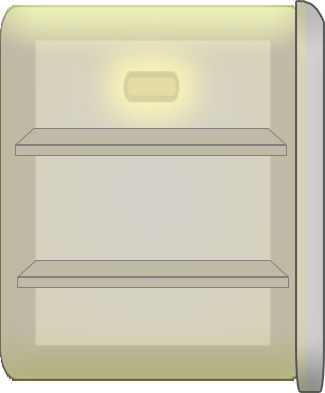
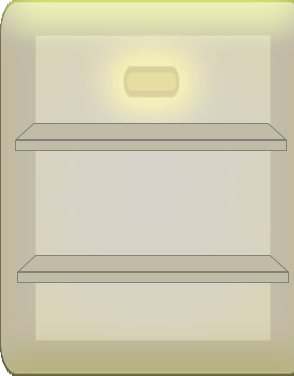
Реализовано:
- Смена темы на светлую
- Пересмотр стиля компонент инвентаря, и перехода на другой уровень
- Механика работы дверей
- Добавлены кнопки сокрытия инвентаря и кнопка сокрытия меню

Changed region(s): [[0.0, 0.0, 1.0, 1.0], [0.5204, 0.1755, 0.6122, 0.2633], [0.3673, 0.1755, 0.4286, 0.2633]]

diff --git a/src/App.tsx b/src/App.tsx
@@ -1,7 +1,7 @@
 import './App.scss'
 
 import b_ from 'b_'
-import React from "react";
+import React, {useEffect, useLayoutEffect, useState} from "react";
 import Inventory from "./component/root/Inventory/index";
 import DisplayComponent from "./component/root/GameSpace";
 import Header from "./component/root/Header";
@@ -9,20 +9,39 @@ import InventoryProviderComponent from "./component/root/Inventory/reduser";
 import TaskSheetProviderComponent from "./component/root/TaskSheet/reduser";
 import NextLocation from "./component/root/NextLocation";
 import {useLocation} from "./component/root/reducer";
+import {useHistory} from 'react-router-dom'
+import {pathSheriffRoom} from "./component/module/Firrst_day/Room_Sheriff/type";
+import {useTheme} from "./hooks";
 
 const b = b_.with('work-space');
 
 const App = () => {
     const propsLocation = useLocation();
+    const history = useHistory();
+    const [isVisibleInventory, setVisibleInventory] = useState<boolean>(true);
+    const [isVisibleMenu, setVisibleMenu] = useState<boolean>(true);
+    const {theme, setTheme} = useTheme();
+
+    useLayoutEffect(() => {
+        history.push(pathSheriffRoom.Kitchen())
+        document.addEventListener('keydown', (event: KeyboardEvent) => {
+            if (event.key.toLowerCase() === 'i') {
+                setVisibleInventory(prevState => !prevState);
+            }
+            if (event.key.toLowerCase() === 'm') {
+                setVisibleMenu(prevState => !prevState);
+            }
+        });
+    }, [])
 
     return <div className={b()}>
         <TaskSheetProviderComponent>
-           <div className={b('header')}>
-               <Header/>
-           </div>
-            <div className={b('body')}>
+            { isVisibleMenu && (<div className={b('header')}>
+                <Header/>
+            </div>)}
+            <div className={b('body', {menu: !isVisibleMenu})}>
                     <InventoryProviderComponent>
-                        <Inventory/>
+                        {isVisibleInventory && (<Inventory/>)}
                         <NextLocation urlLocation={propsLocation.leftLocation} revers={true} disable={propsLocation.leftLocation === ''}/>
                         <DisplayComponent/>
                         <NextLocation urlLocation={propsLocation.rightLocation} disable={propsLocation.rightLocation === ''}/>

diff --git a/src/component/module/Firrst_day/Room_Sheriff/Kitchen/components/Fridge/index.tsx b/src/component/module/Firrst_day/Room_Sheriff/Kitchen/components/Fridge/index.tsx
@@ -35,11 +35,12 @@ const Fridge = () => {
             }}
             classNameContainer={construction({top_open: isOpenTopDoor, top: !isOpenTopDoor})}
             classNameImg={img({top_open: isOpenTopDoor, top: !isOpenTopDoor})}/>
+            <div className={construction('bottom-block-door')}>
         <Image
             onClick={() => {
                 if(!isOpenBottomDoor) {
                     songDoor({id: 'close'})
-                    setOpenBottomDoor(!isOpenBottomDoor)
+                    setOpenBottomDoor(true)
                 } else {
                     history.push(pathSheriffRoom.FridgeInside());
                 }
@@ -47,6 +48,15 @@ const Fridge = () => {
             classNameContainer={construction({bottom: !isOpenBottomDoor, bottom_open: isOpenBottomDoor })}
             classNameImg={img({bottom: !isOpenBottomDoor, bottom_open: isOpenBottomDoor})}>
         </Image>
+                {isOpenBottomDoor && (<Image
+                    onClick={()=>{
+                        songDoor({id: 'close'})
+                        setOpenBottomDoor(false)
+                    }}
+                    classNameContainer={construction({opened_door: true})}
+                    classNameImg={img({opened_door: true})}
+                />)}
+            </div>
     </Image>
 }
 

diff --git a/src/App.scss b/src/App.scss
@@ -1,5 +1,5 @@
 
-body {
+html[data-theme='dark']{
   --black-natural-2: #1c1c1c;
   --black-natural-1: #000000;
   --black-natural-3: #232323;
@@ -12,8 +12,29 @@ body {
 
   --dark-mask-1: #0000009c;
 
+  --box-shadow: #000000;
   --z-index-backgound: 10;
   --z-index-things-third-plan:  13;
+  --z-index-things-second-plan: 15;
+  --z-index-things-first-plan: 20;
+  --z-index-button: 40;
+  --z-index-popup: 80;
+  --z-index-modal: 100;
+}
+
+html[data-theme='light']{
+  --black-natural-1: #dbdbdb;
+  --black-natural-2: #ffffff;
+  --black-natural-3: #dfdfdf;
+  --gray-natural-dark: #8f8e8e;
+  --gray-natural-medium: #272727;
+  --gray-natural-light: #838383;
+  --white-natural-1: #1c1c1c;
+  --dark-red-natural-1: #870000;
+  --dark-mask-1: rgba(213, 213, 213, 0.61);
+  --box-shadow: #a9a9a9;
+  --z-index-backgound: 10;
+  --z-index-things-third-plan: 13;
   --z-index-things-second-plan: 15;
   --z-index-things-first-plan: 20;
   --z-index-button: 40;
@@ -57,6 +78,11 @@ body {
     justify-content: center;
     align-items: flex-start;
     position: relative;
+
+    &_menu {
+      height: calc(100% - 20px);
+      align-items: flex-end;
+    }
   }
 
 }

diff --git a/src/component/root/Header/index.tsx b/src/component/root/Header/index.tsx
@@ -5,11 +5,13 @@ import React from "react";
 import {Button, Song, IconType} from 'rooms';
 import useSound from "use-sound";
 import {useTaskSheet} from "../TaskSheet/reduser";
+import {useHistory} from 'react-router-dom';
 
 const b = b_.with('header');
 
 const Header = () => {
 
+    const history  = useHistory();
     const taskProps = useTaskSheet();
     const [openSong] = useSound(Song.openCheckList, {sprite: {openSong: [100, 500]}});
 
@@ -24,7 +26,15 @@ const Header = () => {
             openSong({id:'openSong'});
         }}
         className={b('icon-bt')}
-        classNameIcon={b('icon')}
+        classNameIcon={b('icon')} />
+        <Button.Icon onClick={()=>{
+            history.goBack();
+        }}
+        mods={{
+            [IconType.Mods.Arrow]: true,
+            [IconType.SettingIcon.HoverColor]: IconType.Color.Red
+        }}
+        text={'Назад'}
         />
     </div>)
 }

diff --git a/src/ui-kit/IconButton/index.tsx b/src/ui-kit/IconButton/index.tsx
@@ -4,6 +4,7 @@ import b_ from 'b_';
 import React from "react";
 import Icon from "../Icon";
 import {IMods} from "../Icon/type";
+import {handleOnClick} from "../function/indes";
 
 const b = b_.with('icon-bt');
 
@@ -12,6 +13,7 @@ interface IIconButton {
     className?: string,
     classNameIcon?: string,
     disable?: boolean,
+    text?: string,
     onClick: () => void,
     style?:{
         border?: boolean,
@@ -26,13 +28,10 @@ const IconButton = ({
     disable,
                     }:IIconButton) =>
     (<div className={[
-        b(),
+        b( ),
         className,
     ].join(' ')}
-    onClick= {()=> {
-        if (!disable) {
-            onClick();
-        }}}
+    onClick= {(event)=> handleOnClick({onClick, disable, event})}
     >
         <Icon
             mods={mods}

diff --git a/src/component/module/Firrst_day/Room_Sheriff/Kitchen/components/Fridge/Fridge.scss b/src/component/module/Firrst_day/Room_Sheriff/Kitchen/components/Fridge/Fridge.scss
@@ -27,6 +27,13 @@
     align-items: center;
   }
 
+  &_opened_door {
+    background-image: url('img/Opened-door.png');
+    display: flex;
+    justify-content: center;
+    align-items: center;
+  }
+
 }
 
 .fridge-construction {
@@ -59,15 +66,30 @@
   &_bottom {
     display: flex;
     width: 75%;
-    height: 48%;
+    height: 75%;
     cursor: pointer;
   }
 
+  &__bottom-block-door {
+    display: inline-flex;
+    width: 100%;
+    height: 66%;
+    justify-content: center;
+  }
+
   &_bottom_open {
+    margin-top: 3%;
     margin-left: 3%;
     display: flex;
-    width: 70%;
-    height: 48%;
+    width: 65%;
+    height: 71%;
+    cursor: pointer;
+  }
+
+  &_opened_door {
+    display: flex;
+    width: 7%;
+    height: 75%;
     cursor: pointer;
   }
 

diff --git a/src/component/root/NextLocation/index.tsx b/src/component/root/NextLocation/index.tsx
@@ -16,6 +16,7 @@ interface INextLocation {
 const NextLocation = ({urlLocation, revers, disable}:INextLocation) => {
     const history = useHistory();
     return <div className={b( {revers})}>
+        <div className={b('next-location-block ')}>
             <Button.Icon
                 disable={disable}
                 className={b('block-location', {revers})}
@@ -26,6 +27,7 @@ const NextLocation = ({urlLocation, revers, disable}:INextLocation) => {
                     [IconType.SettingIcon.HoverColor]: disable ? IconType.Color.Gray : IconType.Color.Red
              }}
             />
+        </div>
     </div>
 }
 

diff --git a/src/component/root/NextLocation/NextLocation.scss b/src/component/root/NextLocation/NextLocation.scss
@@ -1,13 +1,24 @@
 .next-location {
   display: flex;
-  justify-content: center;
+  justify-content: flex-start;
   align-items: center;
   min-width: 20px;
-  width: 100px;
-  height: 100%;
-
+  width: 60px;
+  height: 95%;
+  &_revers {
+    justify-content: flex-end;
+  }
 
   &__block-location {
+    display: flex;
+    justify-content: center;
+    align-items: center;
+    min-width: 20px;
+    width: 44px;
+    height: 65px;
+    background-color: var(--black-natural-2);
+    border-radius: 0px 32px 32px 0;
+
       &_revers {
         transform: rotate(180deg);
       }

diff --git a/src/hooks/index.tsx b/src/hooks/index.tsx
@@ -1,0 +1,18 @@
+import {Dispatch, SetStateAction, useLayoutEffect, useState} from 'react';
+
+export enum Theme {
+    Light = 'light',
+    Dark='dark',
+}
+
+type TUseTheme  = () => {theme: Theme, setTheme: (arg: Theme) => void}
+
+export const useTheme: TUseTheme = () => {
+    const [theme, setTheme] = useState<Theme>(Theme.Dark);
+
+    useLayoutEffect(()=> {
+        document.documentElement.setAttribute('data-theme', theme)
+    }, [theme])
+
+    return {theme ,setTheme};
+}

diff --git a/src/component/root/Inventory/Inventory.scss b/src/component/root/Inventory/Inventory.scss
@@ -8,6 +8,7 @@
     flex-grow: 0;
     flex-shrink: 0;
     margin-left: 40px;
+    border: 2px solid var(--gray-natural-dark);
 
     &__button {
         display: flex;
@@ -52,7 +53,7 @@
         height: 121px;
         background: var(--black-natural-2);
         width: 180px;
-        box-shadow: inset -1px 1px 17px 9px;
+        box-shadow: inset -1px 1px 17px 9px var(--box-shadow);
         border-radius: 8px;
         cursor: pointer;
         flex-grow: 0;

diff --git a/src/ui-kit/Button/Button.scss b/src/ui-kit/Button/Button.scss
@@ -1,0 +1,20 @@
+.button {
+  display: flex;
+  justify-content: center;
+  align-items: center;
+  cursor: pointer;
+  gap: 8px;
+  height: 20px;
+  color: var(--white-natural-1);
+  border-radius: 12px;
+  border: 1ps solid var(--white-natural-1);
+  min-width: 40px;
+
+  &_disable {
+    cursor: not-allowed;
+    &:hover{
+      background-color: inherit;
+    }
+  }
+
+}

diff --git a/src/ui-kit/function/indes.ts b/src/ui-kit/function/indes.ts
@@ -1,0 +1,14 @@
+import {SyntheticEvent} from "react";
+
+interface IHandleOnClick {
+    onClick: () => void,
+    event: SyntheticEvent,
+    disable: boolean,
+}
+
+export const handleOnClick = ({onClick, disable, event}:  IHandleOnClick) => {
+    if(!disable){
+        event.stopPropagation()
+        onClick();
+    }
+}
